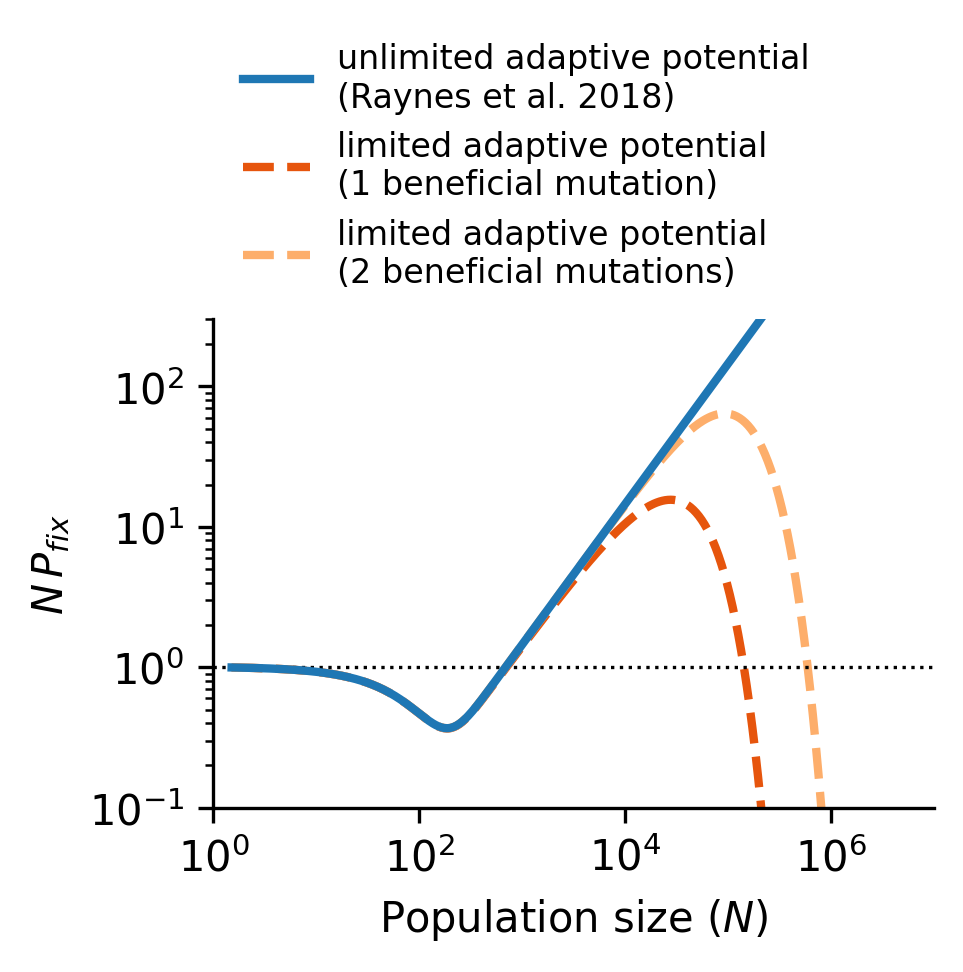
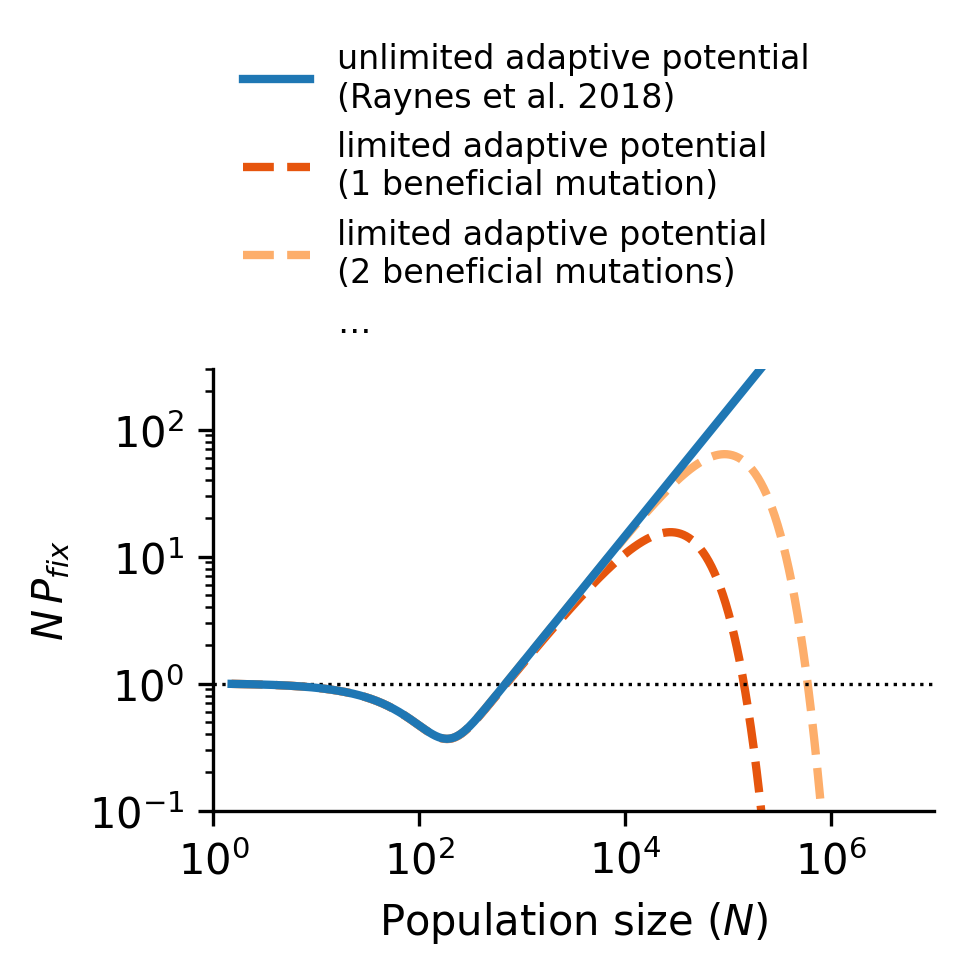
Deploying to bindle-theory-invader-npfix.py from @ mmore500/hypermutator-dynamics@255401af5644e770f84dca5e5f9e79f30196f311 🚀

diff --git a/bindle/theory-invader-npfix.py b/bindle/theory-invader-npfix.py
@@ -122,6 +122,7 @@ def _(model_N, model_npfix, teeplot_subdir):
                 linewidth=2,
                 zorder=3 if linestyle == "-" else 2,
             )
+        ax.plot([], [], " ", label="…")  # further mutations, not drawn
         ax.axhline(1, color="black", linestyle=":", linewidth=0.8)
         ax.set(
             xlabel="Population size ($N$)",
